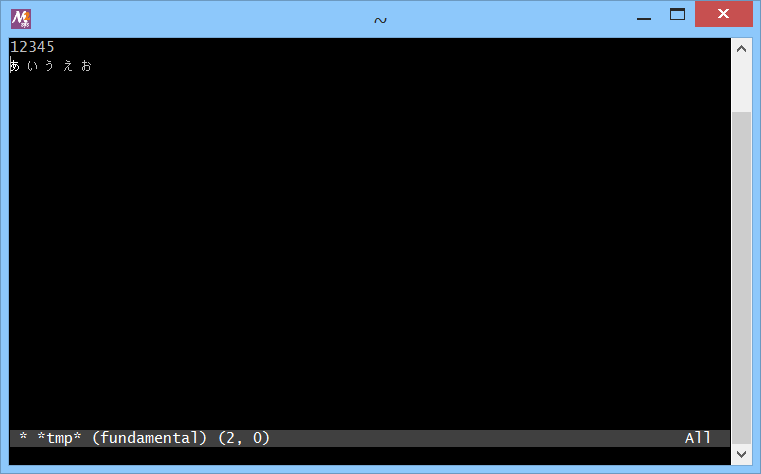
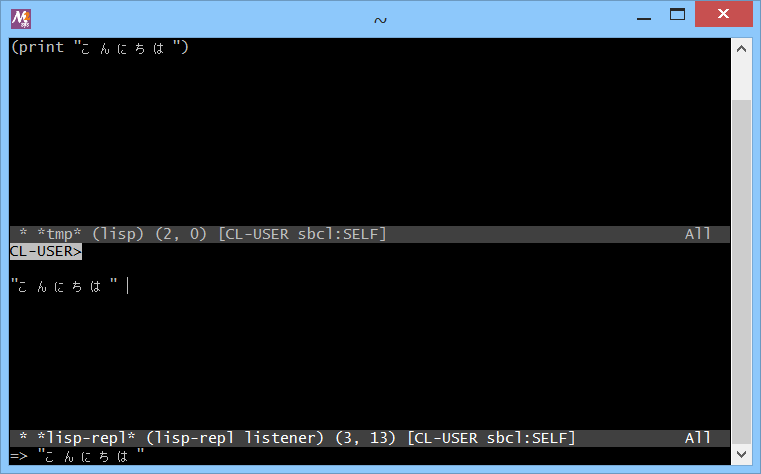
src chg v1.4-mg0010

diff --git a/README.md b/README.md
@@ -112,6 +112,11 @@
   Lem エディタの画面が表示されます。  
   おおむね Emacs のように操作できます。
 
+- M-x lisp-mode で lisp-mode に入ることができます。  
+  S式 を入力してから、C-c C-e により末尾の S式 を評価できます。  
+  また、先頭で C-space でマークして、末尾にカーソルを移動してから C-c C-r とすると、  
+  指定した範囲(リージョン)の S式 を評価できます。
+
 
 ## 問題点
 1. コマンドプロンプト上では動作しない
@@ -186,6 +191,7 @@
 - 2018-9-7   v1.4-mg0007 C-x C-c ですぐに終了しない件の対策
 - 2018-9-9   v1.4-mg0008 C-x 3 で画面を縦分割すると、日本語表示の分だけ右画面がずれる件の対策
 - 2018-9-10  v1.4-mg0009 PDCurses の stdscr のみを使用するように変更
+- 2018-9-10  v1.4-mg0010 sleep の位置を調整
 
 
 (2018-9-10)
